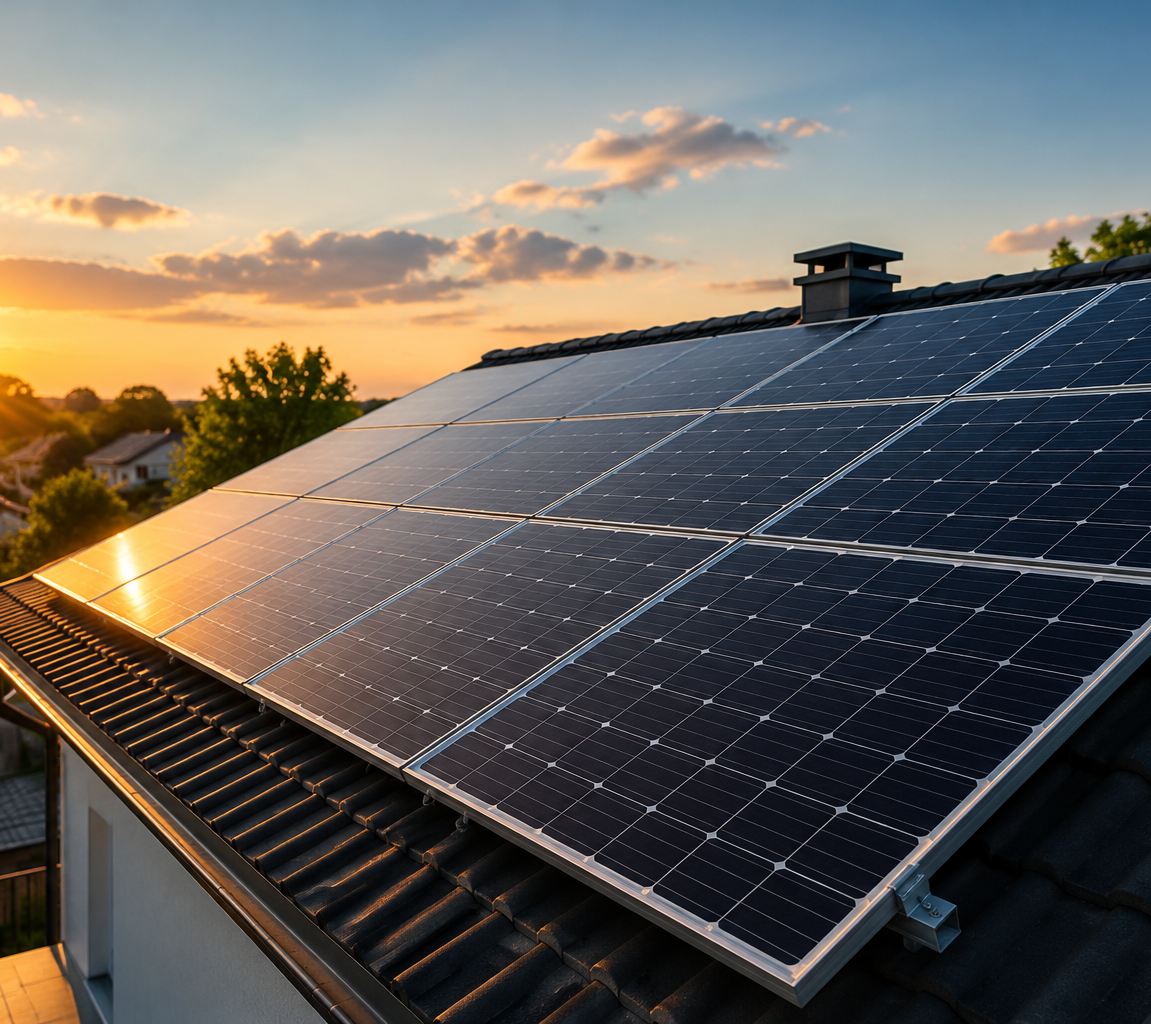
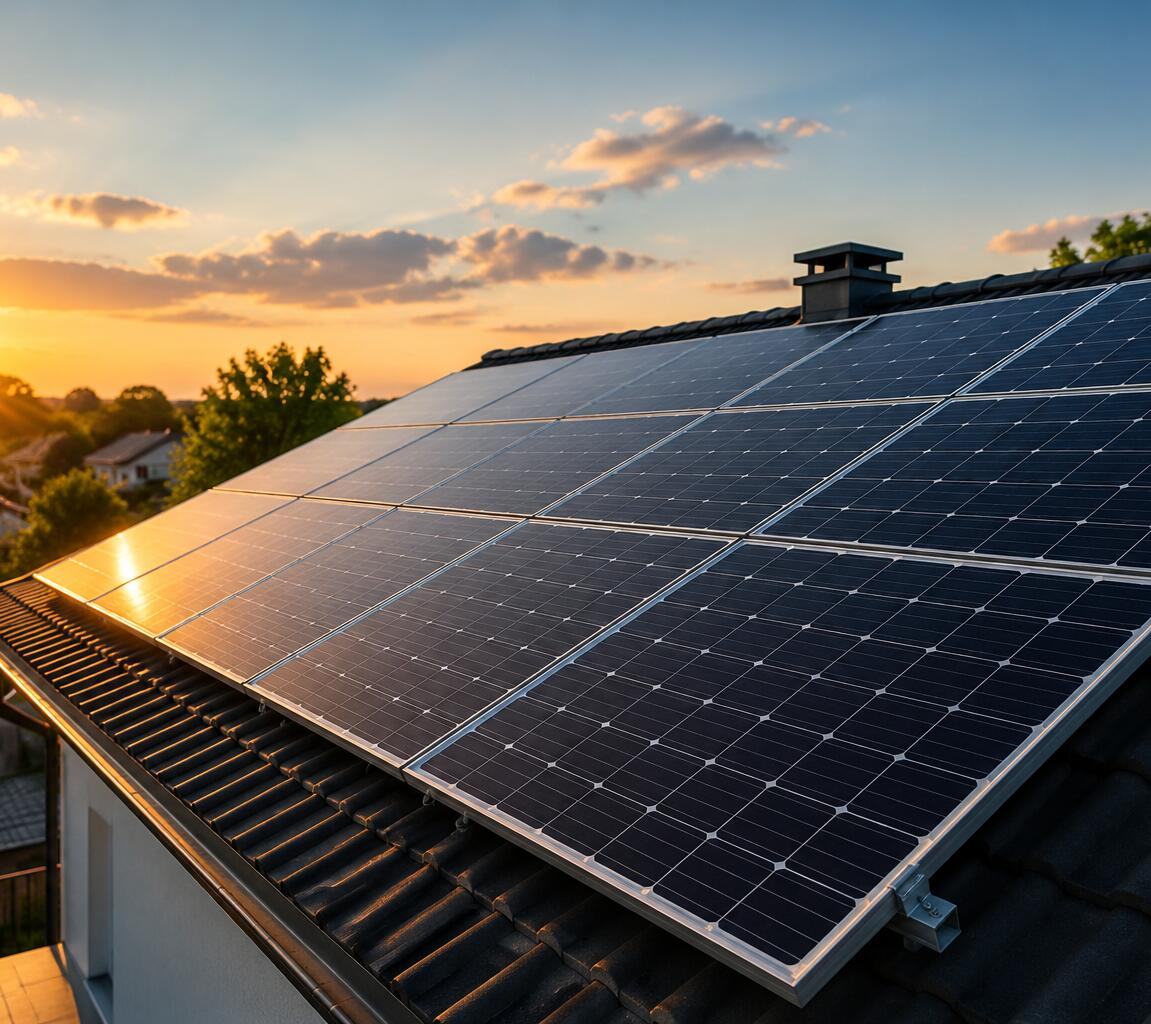
Optimize image assets (reduced total size by 15MB) and configure daylight hero JPEG background

Changed region(s): [[0.0, 0.5625, 0.2433, 0.7812], [0.0912, 0.5938, 0.1216, 0.625], [0.0304, 0.6875, 0.0608, 0.7188]]

diff --git a/app/page.tsx b/app/page.tsx
@@ -88,7 +88,7 @@ export default function Home() {
           {/* Right Side: Daylight Solar Array Generation View */}
           <div className="relative w-full md:w-1/2 h-[50vh] md:h-full overflow-hidden">
             <img
-              src="/images/hero_daylight.png"
+              src="/images/hero_daylight.jpg"
               alt="Smart Solar & Security Solutions daylight generation display"
               className="object-cover w-full h-full opacity-90"
             />
